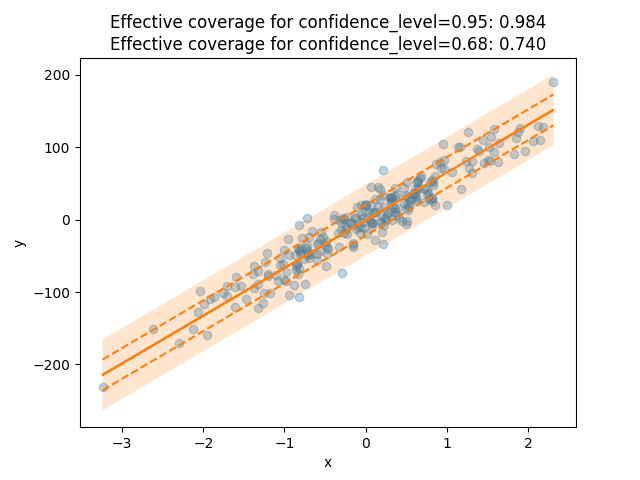
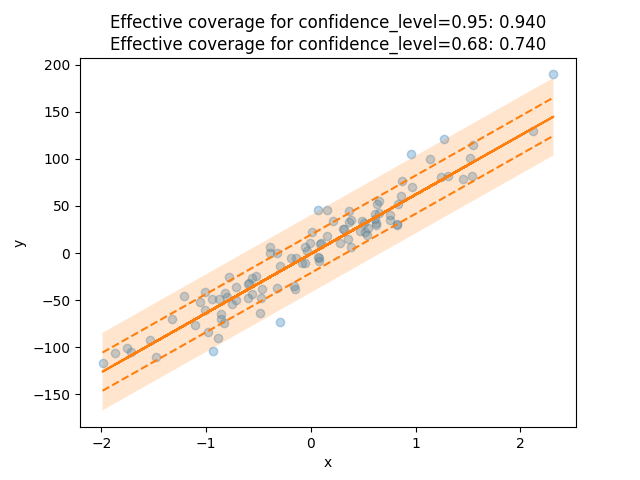
DOC: simplify and improve example in quick_start.rst and plot_toy_model.py

diff --git a/examples/regression/1-quickstart/plot_toy_model.py b/examples/regression/1-quickstart/plot_toy_model.py
@@ -14,12 +14,14 @@ from mapie.metrics import regression_coverage_score
 from mapie_v1.regression import SplitConformalRegressor
 
 RANDOM_STATE = 42
+
 X, y = make_regression(n_samples=500, n_features=1, noise=20, random_state=RANDOM_STATE)
-X_train_conformalize, X_test, y_train_conformalize, y_test = train_test_split(
-    X, y, test_size=0.5, random_state=RANDOM_STATE
+
+X_train, X_test_conformalize, y_train, y_test_conformalize = train_test_split(
+    X, y, test_size=0.4,  random_state=RANDOM_STATE
 )
-X_train, X_conformalize, y_train, y_conformalize = train_test_split(
-    X_train_conformalize, y_train_conformalize, test_size=0.5, random_state=RANDOM_STATE
+X_test, X_conformalize, y_test, y_conformalize = train_test_split(
+    X_test_conformalize, y_test_conformalize, test_size=0.5, random_state=RANDOM_STATE
 )
 
 confidence_level = [0.95, 0.68]

diff --git a/doc/quick_start.rst b/doc/quick_start.rst
@@ -37,7 +37,7 @@ Let us start with a basic regression problem.
 Here, we generate one-dimensional noisy data that we fit with a linear model.
 
 ..
-    Comment to developers: the following piece of code is duplicated in `examples/regression/1-quickstart/plot_toy_model.py`.
+    Comment to developers: the following piece of code is heavily inspired by `examples/regression/1-quickstart/plot_toy_model.py`.
     When updating it, please replicate the changes to this other file.
 
 .. testcode::
@@ -46,14 +46,10 @@ Here, we generate one-dimensional noisy data that we fit with a linear model.
     from sklearn.datasets import make_regression
     from sklearn.model_selection import train_test_split
 
-    RANDOM_STATE = 42
-    X, y = make_regression(n_samples=500, n_features=1, noise=20, random_state=RANDOM_STATE)
-    X_train_conformalize, X_test, y_train_conformalize, y_test = train_test_split(
-        X, y, test_size=0.5, random_state=RANDOM_STATE
-    )
-    X_train, X_conformalize, y_train, y_conformalize = train_test_split(
-        X_train_conformalize, y_train_conformalize, test_size=0.5, random_state=RANDOM_STATE
-    )
+    X, y = make_regression(n_samples=500, n_features=1, noise=20)
+
+    X_train, X_temp, y_train, y_temp = train_test_split(X, y)
+    X_test, X_conformalize, y_test, y_conformalize = train_test_split(X_temp, y_temp)
 
     #  We follow a sequential ``fit``, ``conformalize``, and ``predict`` process.
     #  We set the confidence level to estimate prediction intervals at approximately one and two
@@ -61,10 +57,7 @@ Here, we generate one-dimensional noisy data that we fit with a linear model.
 
     from mapie_v1.regression import SplitConformalRegressor
 
-    mapie_regressor = SplitConformalRegressor(
-        confidence_level=[0.95, 0.68],
-        prefit=False,
-    )
+    mapie_regressor = SplitConformalRegressor(confidence_level=[0.95, 0.68], prefit=False)
     mapie_regressor.fit(X_train, y_train)
     mapie_regressor.conformalize(X_conformalize, y_conformalize)
 
